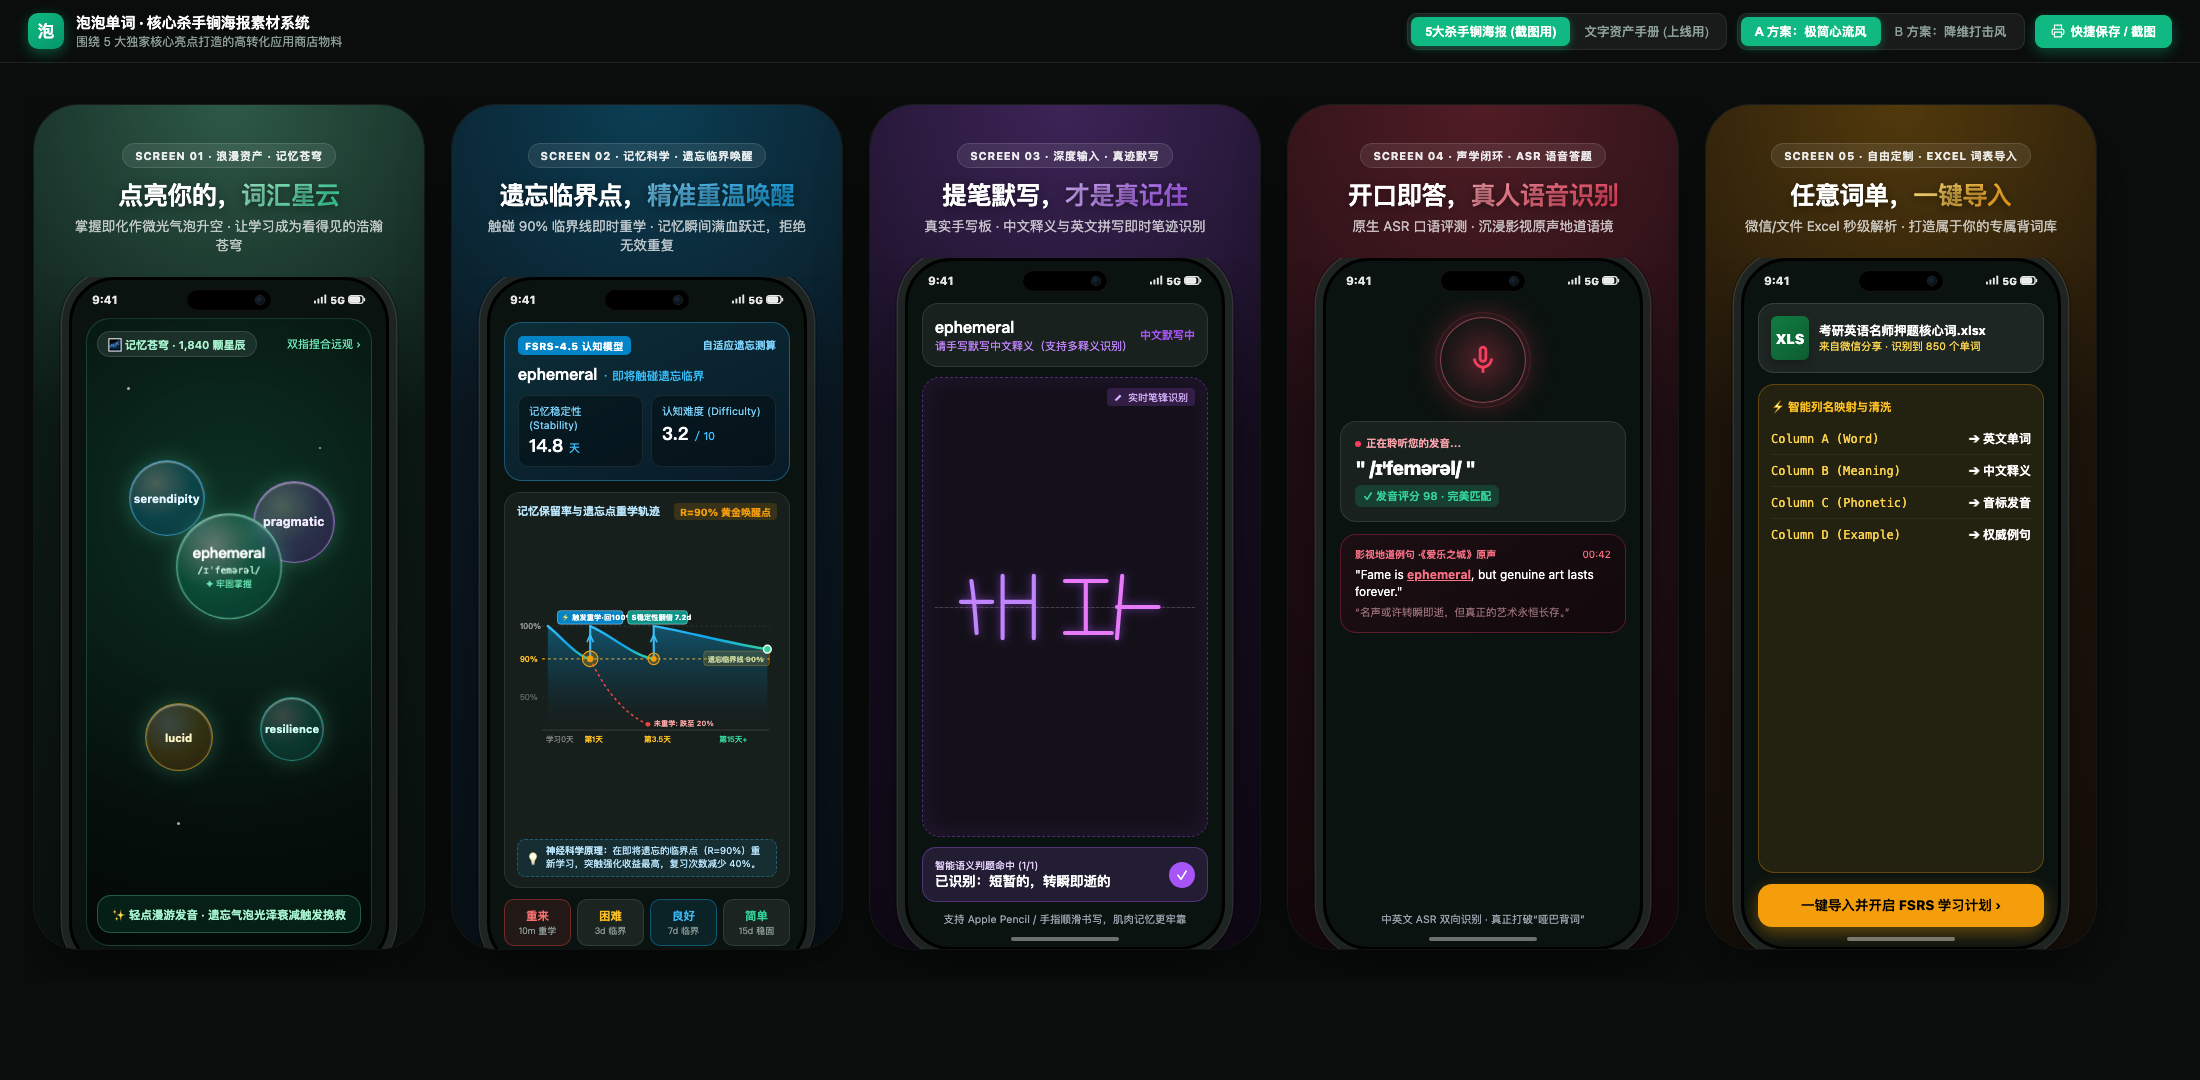
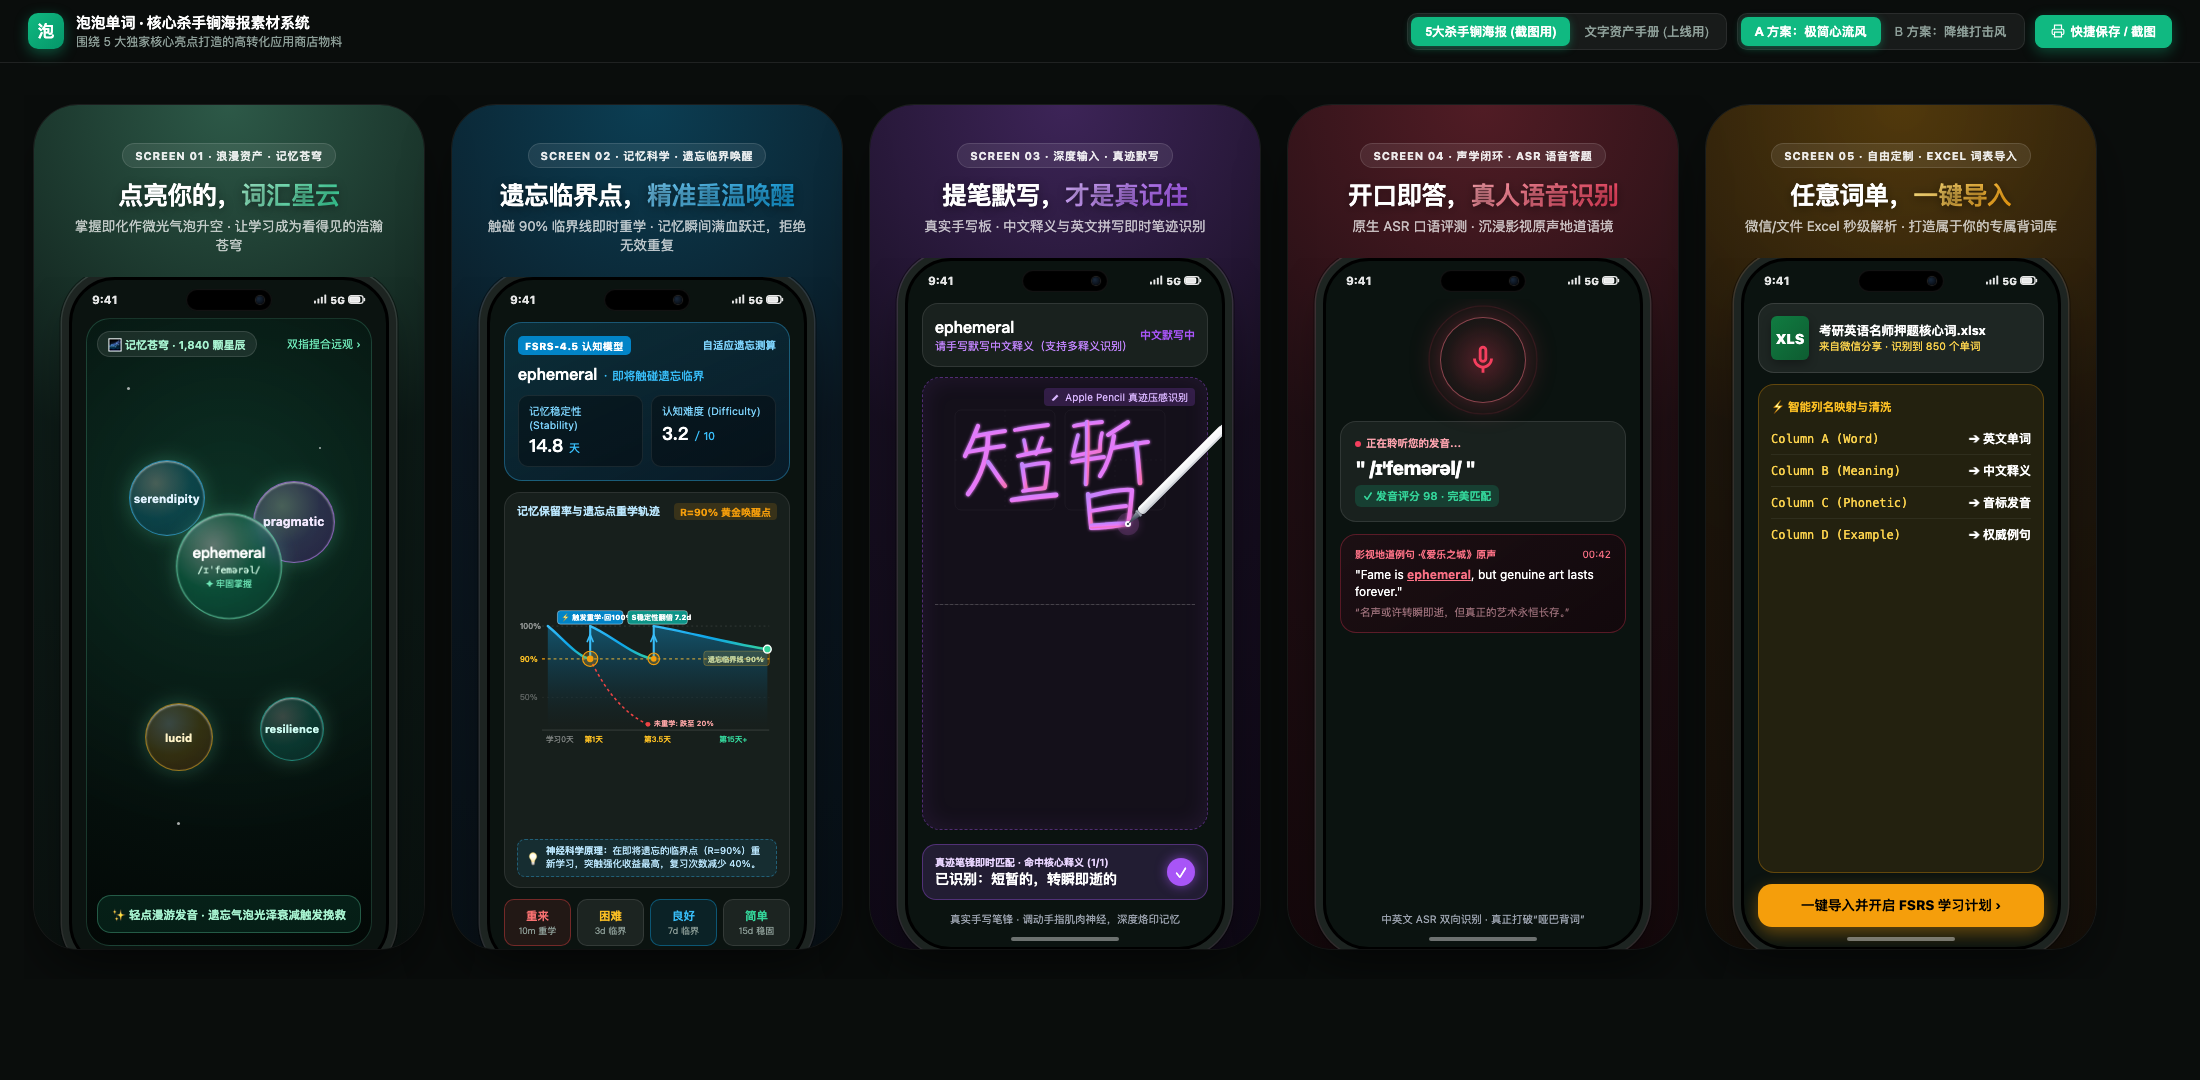
feat: enhance app store showcase handwriting canvas with high-fidelity Apple Pencil rendering

Changed region(s): [[0.4327, 0.3361, 0.5564, 0.4889], [0.4018, 0.7639, 0.5564, 0.8556], [0.4327, 0.5194, 0.5255, 0.6111]]

diff --git a/design/ui/app_store_showcase.html b/design/ui/app_store_showcase.html
@@ -1289,35 +1289,146 @@
                 </div>
 
                 <!-- 手写画布 -->
-                <div class="hw-canvas-container">
+                <div class="hw-canvas-container" style="padding: 0; overflow: visible;">
                   <div class="hw-guide-line"></div>
                   <div class="hw-realtime-badge">
                     <svg width="10" height="10" viewBox="0 0 24 24" fill="currentColor"><path d="M3 17.25V21h3.75L17.81 9.94l-3.75-3.75L3 17.25z"/></svg>
-                    实时笔锋识别
+                    Apple Pencil 真迹压感识别
                   </div>
 
-                  <!-- 手写中文仿真笔迹 SVG -->
-                  <svg width="100%" height="100%" viewBox="0 0 250 160" fill="none" style="z-index: 10;">
-                    <!-- “短” -->
-                    <path class="stroke-path-live" d="M35 55 Q 38 75 40 105 M25 75 H 55 M65 50 V 110 M65 75 H 95 M95 50 V 110" stroke="#C084FC" stroke-width="4" stroke-linecap="round" stroke-linejoin="round"/>
-                    <!-- “暂” -->
-                    <path class="stroke-path-live" d="M125 55 H 165 M145 55 V 105 M125 105 H 170 M180 50 L 175 110 M175 80 H 215" stroke="#E879F9" stroke-width="4" stroke-linecap="round" stroke-linejoin="round"/>
+                  <!-- 手写仿真笔迹与真实手写笔 SVG -->
+                  <svg width="100%" height="175" viewBox="0 0 270 175" fill="none" style="overflow: visible;">
+                    <defs>
+                      <!-- 笔迹流光渐变 -->
+                      <linearGradient id="inkGrad" x1="0" y1="0" x2="1" y2="1">
+                        <stop offset="0%" stop-color="#C084FC"/>
+                        <stop offset="60%" stop-color="#E879F9"/>
+                        <stop offset="100%" stop-color="#F472B6"/>
+                      </linearGradient>
+                      <!-- 笔身立体金属光泽 -->
+                      <linearGradient id="pencilBarrel" x1="0" y1="0" x2="1" y2="1">
+                        <stop offset="0%" stop-color="#FFFFFF"/>
+                        <stop offset="50%" stop-color="#F3F4F6"/>
+                        <stop offset="100%" stop-color="#D1D5DB"/>
+                      </linearGradient>
+                      <!-- 笔尖渐变 -->
+                      <linearGradient id="pencilTip" x1="0" y1="0" x2="1" y2="1">
+                        <stop offset="0%" stop-color="#9CA3AF"/>
+                        <stop offset="50%" stop-color="#4B5563"/>
+                        <stop offset="100%" stop-color="#1F2937"/>
+                      </linearGradient>
+                      <!-- 接触光晕滤镜 -->
+                      <filter id="penTipGlow" x="-50%" y="-50%" width="200%" height="200%">
+                        <feGaussianBlur stdDeviation="4" result="blur"/>
+                        <feComposite in="SourceGraphic" in2="blur" operator="over"/>
+                      </filter>
+                      <filter id="strokeInkGlow" x="-20%" y="-20%" width="140%" height="140%">
+                        <feGaussianBlur in="SourceGraphic" stdDeviation="1.8" result="glow"/>
+                        <feMerge>
+                          <feMergeNode in="glow"/>
+                          <feMergeNode in="SourceGraphic"/>
+                        </feMerge>
+                      </filter>
+                    </defs>
+
+                    <!-- 米字格 / 田字格极淡参考背景线 -->
+                    <rect x="25" y="32" width="100" height="100" rx="6" fill="none" stroke="rgba(255,255,255,0.04)" stroke-width="1"/>
+                    <line x1="75" y1="32" x2="75" y2="132" stroke="rgba(255,255,255,0.03)" stroke-dasharray="2 3"/>
+                    <line x1="25" y1="82" x2="125" y2="82" stroke="rgba(255,255,255,0.03)" stroke-dasharray="2 3"/>
+
+                    <rect x="135" y="32" width="100" height="100" rx="6" fill="none" stroke="rgba(255,255,255,0.04)" stroke-width="1"/>
+                    <line x1="185" y1="32" x2="185" y2="132" stroke="rgba(255,255,255,0.03)" stroke-dasharray="2 3"/>
+                    <line x1="135" y1="82" x2="235" y2="82" stroke="rgba(255,255,255,0.03)" stroke-dasharray="2 3"/>
+
+                    <!-- ===== 真实手写真迹：字「短」 ===== -->
+                    <g filter="url(#strokeInkGlow)" stroke="url(#inkGrad)" stroke-linecap="round" stroke-linejoin="round">
+                      <!-- 矢字旁：撇与横折 -->
+                      <path d="M 48 48 C 45 56, 40 68, 35 78" stroke-width="4.2"/>
+                      <path d="M 46 58 C 55 56, 68 54, 75 53" stroke-width="4.0"/>
+                      <path d="M 38 74 C 48 72, 65 69, 74 68" stroke-width="3.8"/>
+                      <path d="M 58 58 C 58 76, 52 98, 38 116" stroke-width="4.5"/>
+                      <path d="M 58 84 C 64 92, 70 102, 75 108" stroke-width="4.2"/>
+
+                      <!-- 豆字部：横、点、撇、横、口、横底 -->
+                      <path d="M 85 52 C 94 50, 110 48, 118 47" stroke-width="3.8"/>
+                      <path d="M 94 62 C 95 67, 96 72, 97 76" stroke-width="3.6"/>
+                      <path d="M 112 60 C 110 65, 108 72, 106 76" stroke-width="3.6"/>
+                      <path d="M 88 78 C 96 76, 112 73, 120 72" stroke-width="3.8"/>
+                      <!-- 行书顺势连带口部 -->
+                      <path d="M 92 86 C 94 100, 95 106, 96 112" stroke-width="4.0"/>
+                      <path d="M 94 88 C 104 86, 114 84, 118 85 C 117 96, 116 104, 115 110 C 108 111, 98 112, 93 113" stroke-width="3.8"/>
+                      <!-- 底长横提按有度 -->
+                      <path d="M 82 122 C 95 120, 115 118, 126 117" stroke-width="4.8"/>
+                    </g>
+
+                    <!-- ===== 真实手写真迹：字「暂」 ===== -->
+                    <g filter="url(#strokeInkGlow)" stroke="url(#inkGrad)" stroke-linecap="round" stroke-linejoin="round">
+                      <!-- 斩字部（车）：横、撇折折、竖 -->
+                      <path d="M 144 48 C 152 46, 164 45, 172 44" stroke-width="3.8"/>
+                      <path d="M 148 57 C 146 64, 144 72, 143 78 C 152 76, 165 74, 170 73 C 170 65, 171 58, 172 55" stroke-width="3.6"/>
+                      <path d="M 142 84 C 152 82, 166 80, 174 79" stroke-width="3.8"/>
+                      <path d="M 157 44 C 158 64, 157 88, 156 106" stroke-width="4.5"/>
+                      <!-- 斤字部：平撇、竖撇、横、竖 -->
+                      <path d="M 198 44 C 192 48, 184 53, 178 57" stroke-width="4.0"/>
+                      <path d="M 184 58 C 182 72, 177 88, 170 98" stroke-width="4.2"/>
+                      <path d="M 183 70 C 194 68, 208 65, 218 64" stroke-width="4.0"/>
+                      <path d="M 206 65 C 208 78, 209 94, 210 105" stroke-width="4.6"/>
+
+                      <!-- 日字底：框与横（最后一笔正在收笔） -->
+                      <path d="M 158 116 C 159 128, 160 140, 161 148" stroke-width="4.2"/>
+                      <path d="M 160 118 C 176 114, 194 111, 202 112 C 201 125, 200 137, 198 146 C 187 148, 172 150, 161 150" stroke-width="4.2"/>
+                      <path d="M 161 133 C 172 131, 186 129, 196 128" stroke-width="3.8"/>
+                      <!-- 最后一笔横，笔尖正落于此点 (198, 146) -->
+                      <path d="M 162 148 C 174 147, 188 146, 198 146" stroke-width="5.0"/>
+                    </g>
+
+                    <!-- ===== 手写笔（Apple Pencil / 旗舰手写笔）高保真渲染 ===== -->
+                    <!-- 笔尖下方纸面压感投影 -->
+                    <ellipse cx="199" cy="148" rx="8" ry="3.5" fill="rgba(0,0,0,0.4)" filter="blur(2px)"/>
+
+                    <!-- 笔尖电容触压光晕（脉冲反馈） -->
+                    <circle cx="198" cy="146" r="10" fill="rgba(232, 121, 249, 0.35)" filter="url(#penTipGlow)">
+                      <animate attributeName="r" values="8;13;8" dur="2s" repeatCount="indefinite"/>
+                      <animate attributeName="opacity" values="0.8;0.3;0.8" dur="2s" repeatCount="indefinite"/>
+                    </circle>
+                    <circle cx="198" cy="146" r="3" fill="#FFFFFF"/>
+
+                    <!-- 45度角伸入的逼真手写笔身 -->
+                    <g transform="rotate(45 198 146)">
+                      <!-- 笔尖高精细微圆锥体 (Nib) -->
+                      <path d="M 198 146 L 195 132 L 201 132 Z" fill="url(#pencilTip)"/>
+                      <!-- 笔尖顶端接触点 -->
+                      <circle cx="198" cy="146" r="1.2" fill="#374151"/>
+
+                      <!-- 笔尖锁紧金属微圈 (Collar) -->
+                      <rect x="194.2" y="129.5" width="7.6" height="2.5" rx="0.5" fill="#9CA3AF" stroke="#6B7280" stroke-width="0.3"/>
+
+                      <!-- 纯白哑光质感笔身 (Pencil Barrel) -->
+                      <rect x="193.5" y="10" width="9" height="119.5" rx="4" fill="url(#pencilBarrel)"/>
+
+                      <!-- 笔身高光与反光阴影线条 -->
+                      <line x1="195" y1="12" x2="195" y2="128" stroke="rgba(255,255,255,0.9)" stroke-width="1.2"/>
+                      <line x1="201.2" y1="12" x2="201.2" y2="128" stroke="rgba(156,163,175,0.4)" stroke-width="1"/>
+
+                      <!-- 笔顶金属装饰倒角 -->
+                      <rect x="194" y="9" width="8" height="2.5" rx="1" fill="#E5E7EB"/>
+                    </g>
                   </svg>
                 </div>
 
                 <!-- 识别与判题匹配度 -->
-                <div class="hw-rec-result-card">
+                <div class="hw-rec-result-card" style="margin-top: 4px;">
                   <div>
-                    <div style="font-size: 10px; color: #E9D5FF;">智能语义判题命中 (1/1)</div>
-                    <div style="font-size: 13.5px; font-weight: 700; color: #FFFFFF;">已识别：短暂的，转瞬即逝的</div>
+                    <div style="font-size: 10px; color: #E9D5FF; font-weight: 600;">真迹笔锋即时匹配 · 命中核心释义 (1/1)</div>
+                    <div style="font-size: 14px; font-weight: 800; color: #FFFFFF;">已识别：短暂的，转瞬即逝的</div>
                   </div>
-                  <div style="width: 26px; height: 26px; border-radius: 50%; background: #A855F7; color: #FFFFFF; display: flex; align-items: center; justify-content: center; font-size: 14px;">
+                  <div style="width: 28px; height: 28px; border-radius: 50%; background: #A855F7; color: #FFFFFF; display: flex; align-items: center; justify-content: center; font-size: 15px; box-shadow: 0 0 12px rgba(168,85,247,0.6);">
                     ✓
                   </div>
                 </div>
 
-                <div style="text-align: center; font-size: 10.5px; color: #9CA3AF;">
-                  支持 Apple Pencil / 手指顺滑书写，肌肉记忆更牢靠
+                <div style="text-align: center; font-size: 10.5px; color: #9CA3AF; margin-top: 2px;">
+                  真实手写笔锋 · 调动手指肌肉神经，深度烙印记忆
                 </div>
               </div>
             </div>
